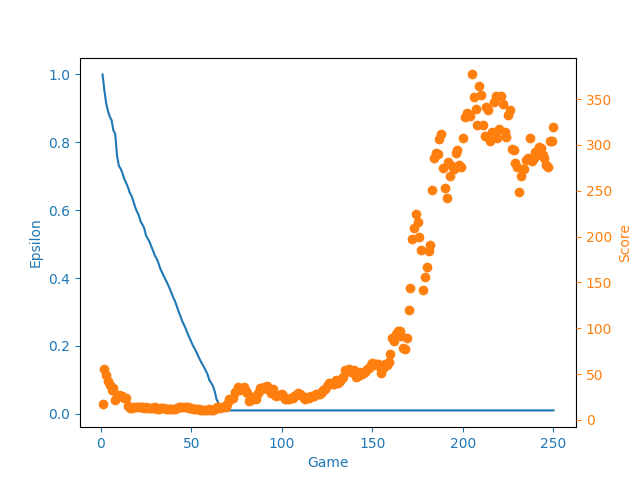
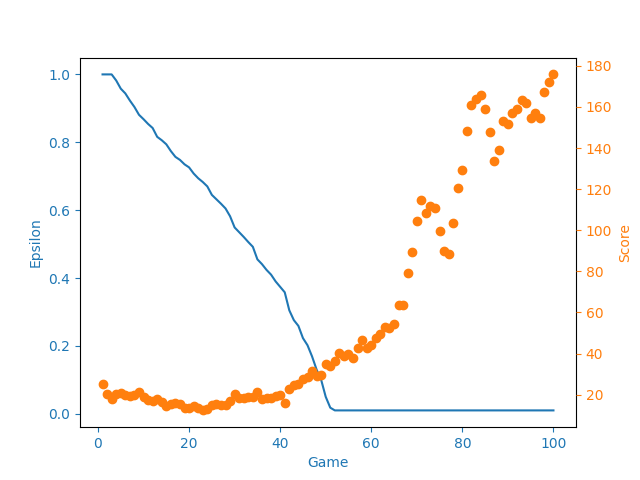
testing

diff --git a/main.py b/main.py
@@ -12,7 +12,7 @@ env = gym.make("CartPole-v1") # "ALE/Surround-v5"  #render_mode'human' ?
 agent = DQNAgent(learning_rate=5e-4, batch_size=64, observation_space=env.observation_space.shape, \
                   n_actions=env.action_space.n, epsilon=1.0, eps_decay=1e-3, eps_min=0.01, gamma=0.95, replace = 50)
 scores, eps_history = [], []
-total_episodes = 250
+total_episodes = 100
 load_checkpoint = False
 data_store = Grapher()
 
